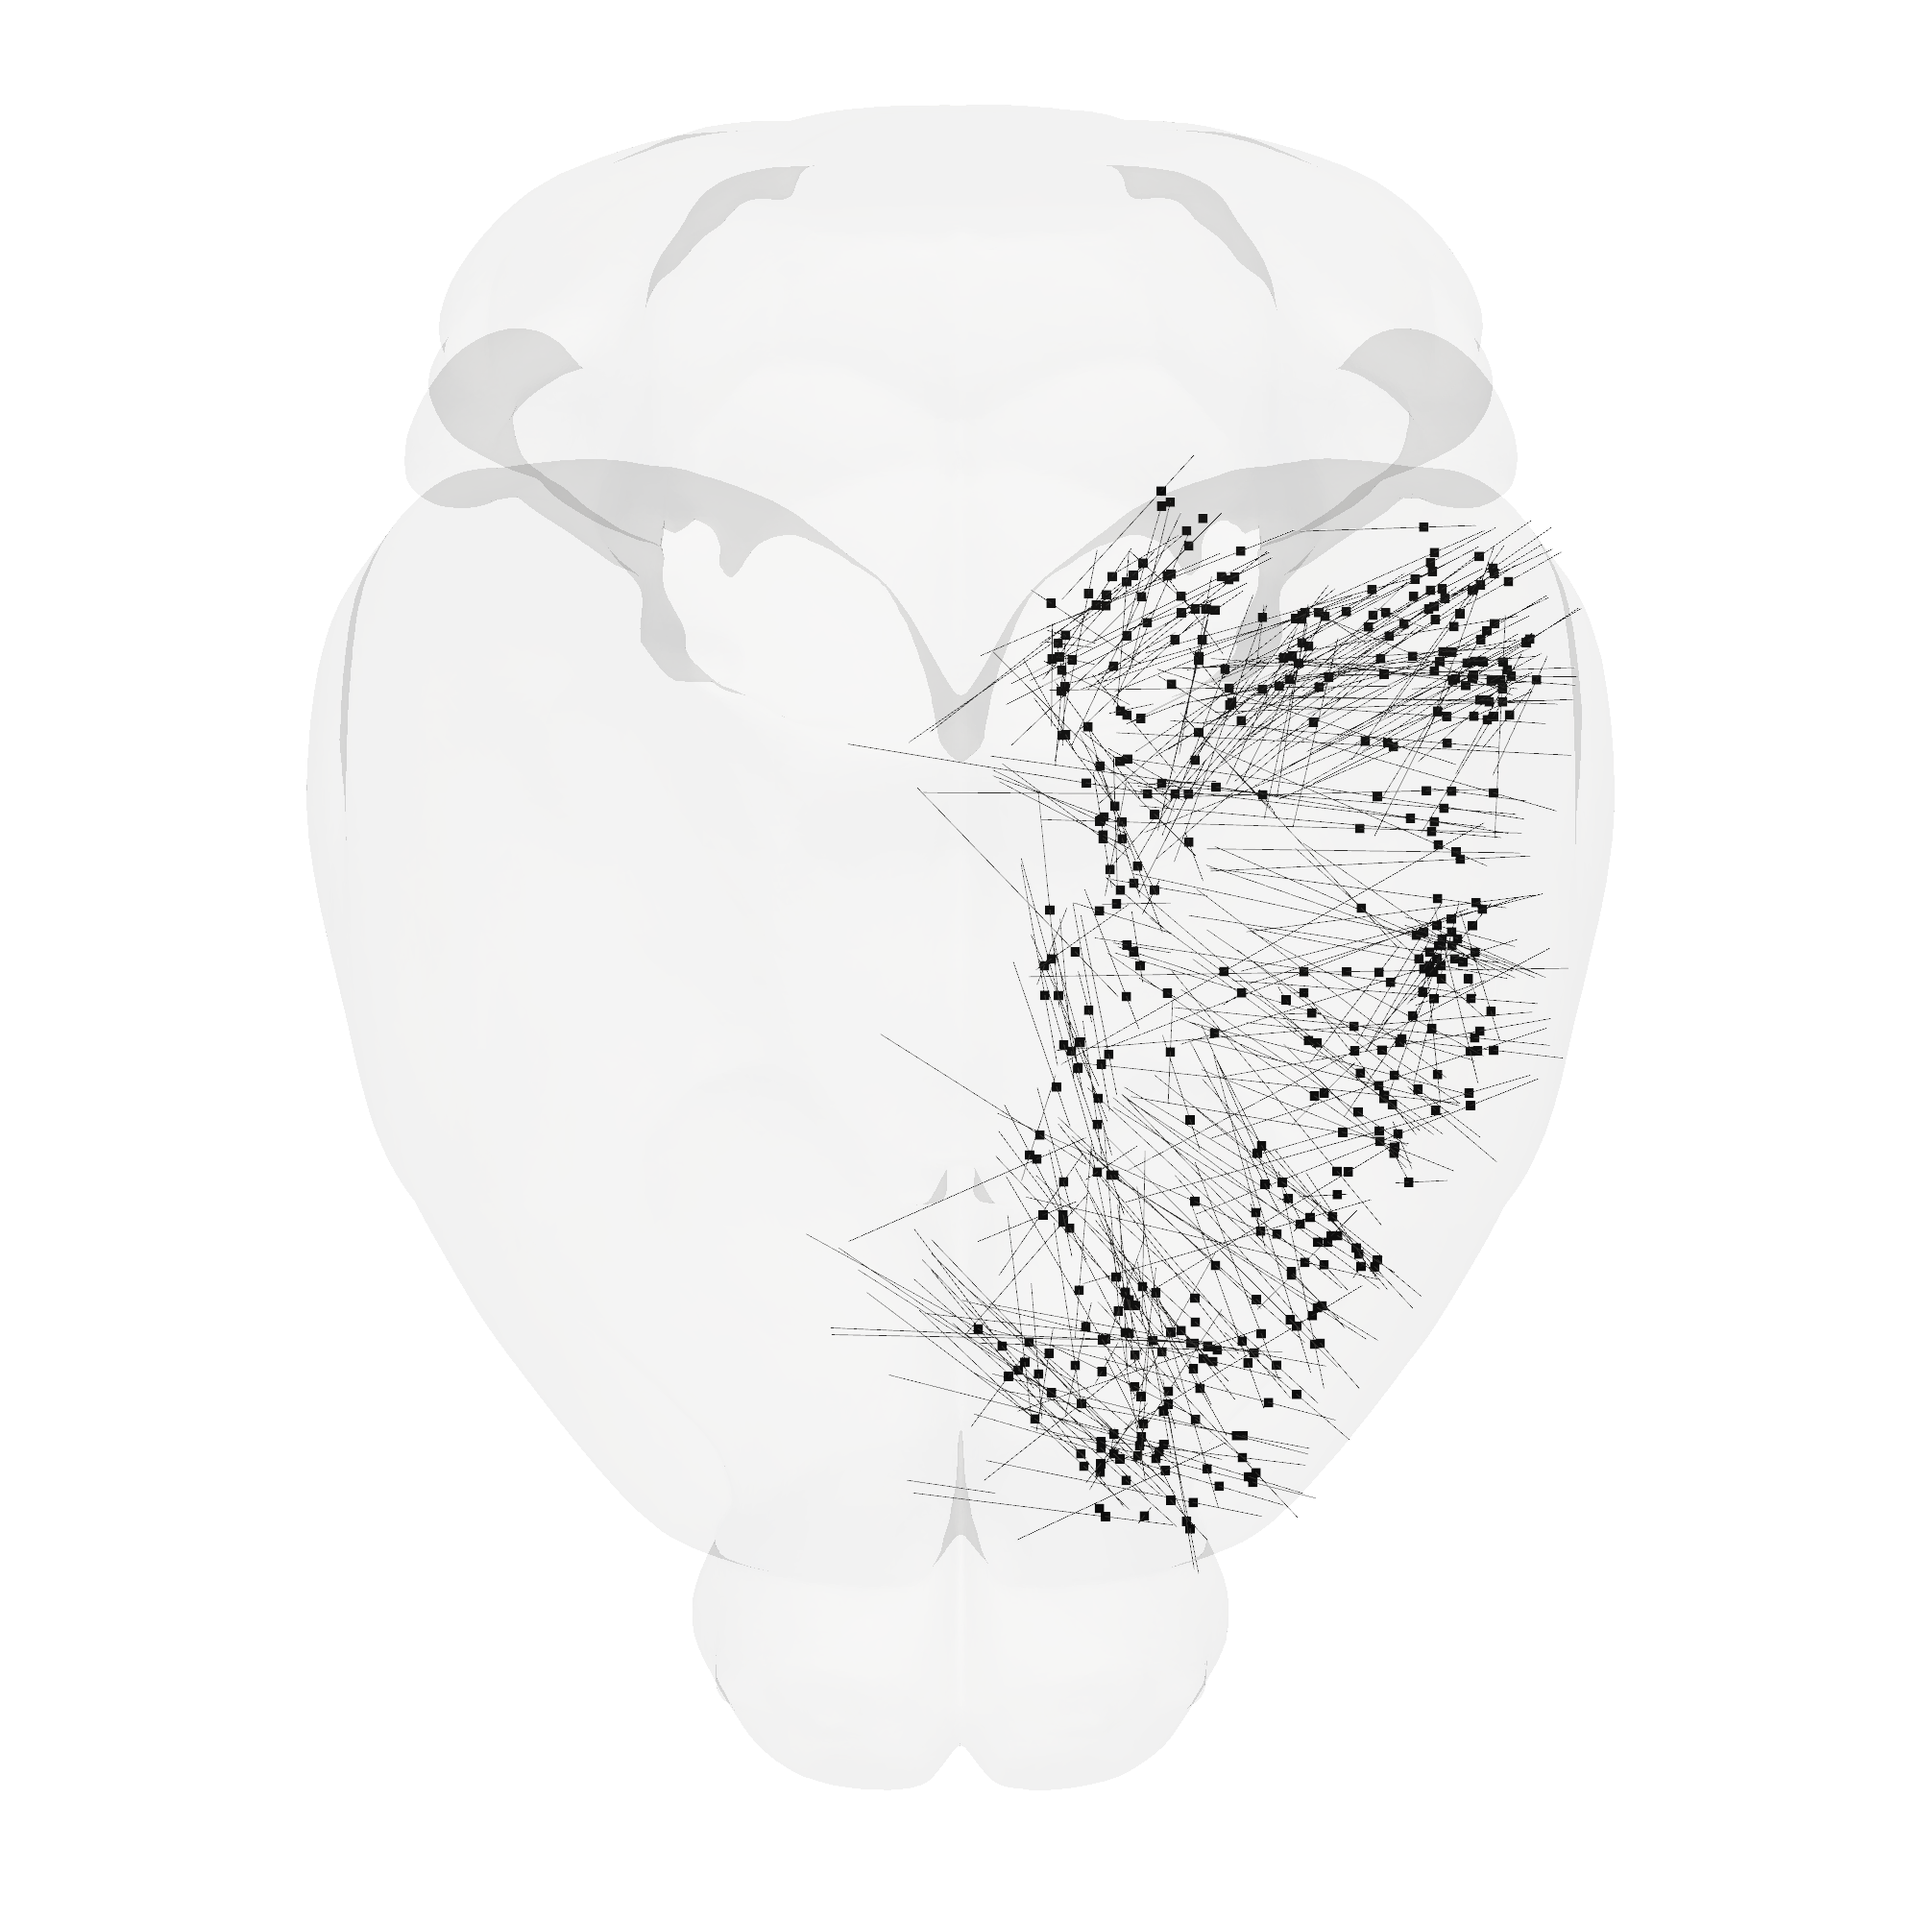
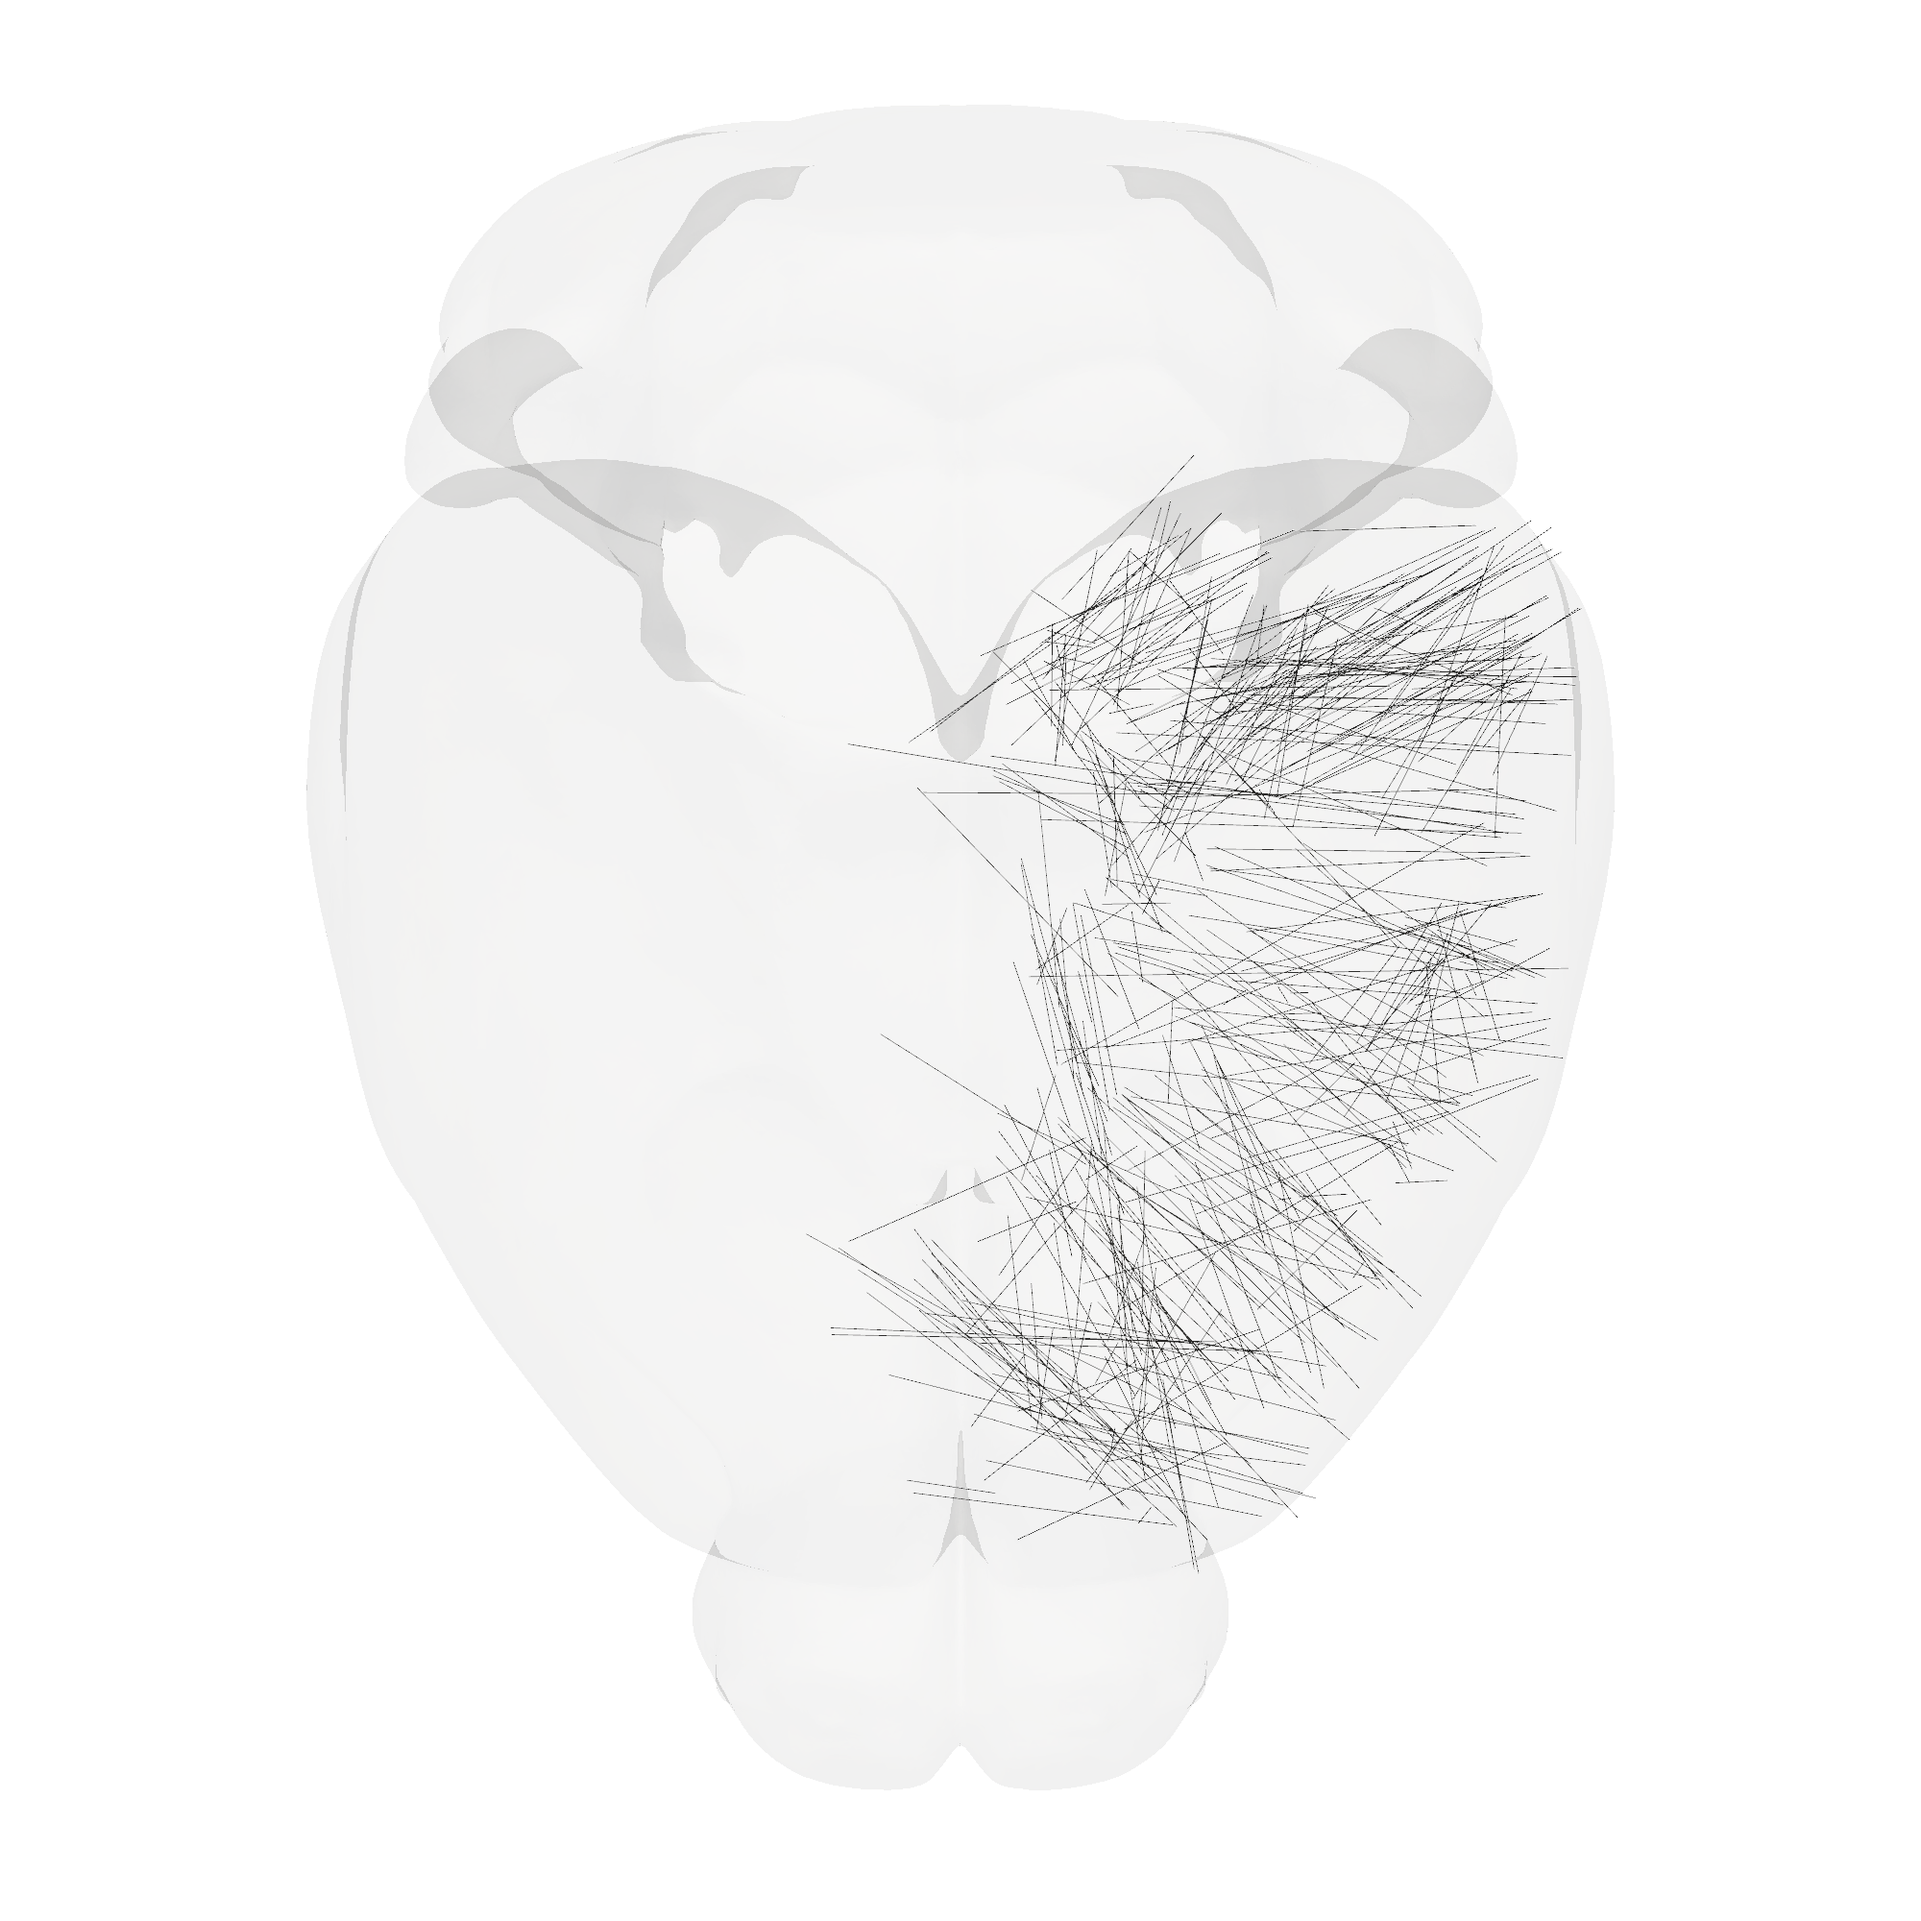
Hide insertion surface points by default

diff --git a/figures/fig1/insertions/marimo_nb.py b/figures/fig1/insertions/marimo_nb.py
@@ -241,6 +241,7 @@ def _(
         *,
         normalize_probe_lengths: bool = True,
         surface_clearance_mm: float = PROBE_SURFACE_CLEARANCE_MM,
+        show_surface_points: bool = False,
     ):
         """Build a low-point scene from electrode coordinates.
 
@@ -279,27 +280,27 @@ def _(
         assets: dict[str, AssetSpec] = {}
         scene = Scene()
 
-        # PyVista point actors have one material per actor. Render only the
-        # magenta bases; tip coordinates are still used to position the probes.
-        for loc, df, color in (("base", base_df, "#000000"),):
-            asset_key = f"electrodes:{loc}"
+        # The base points sit at the probe/surface intersection. They are
+        # useful for inspection, but are hidden by default in the figure.
+        if show_surface_points:
+            asset_key = "electrodes:base"
             assets[asset_key] = AssetSpec(
                 key=asset_key,
                 kind="points",
                 default_material=Material(
-                    name=f"electrodes-{loc}",
-                    color_hex_str=color,
+                    name="electrodes-base",
+                    color_hex_str="#000000",
                     point_size=10.0,
                 ),
                 points=PointsTransformable(
-                    points_in_scene_mm(df, ml_midline_mm=ml_midline_mm)
+                    points_in_scene_mm(base_df, ml_midline_mm=ml_midline_mm)
                 ),
             )
             scene.upsert(
                 NodeInstance(
                     key=asset_key,
                     asset_key=asset_key,
-                    tags={"electrodes", loc},
+                    tags={"electrodes", "base"},
                 )
             )
 
@@ -382,6 +383,7 @@ def _(
         height: int = 2000,
         normalize_probe_lengths: bool = True,
         surface_clearance_mm: float = PROBE_SURFACE_CLEARANCE_MM,
+        show_surface_points: bool = False,
         camera_zoom: float = 1.25,
     ):
         """Render named anatomical views and save one PNG per view."""
@@ -390,6 +392,7 @@ def _(
             brain=brain,
             normalize_probe_lengths=normalize_probe_lengths,
             surface_clearance_mm=surface_clearance_mm,
+            show_surface_points=show_surface_points,
         )
         plotter = pv.Plotter(
             off_screen=True,
@@ -598,6 +601,7 @@ def _(Path, load_pinpoint_atlas_mesh, on_codeocean):
     width = 2000
     height = 2000
     normalize_probe_lengths = True
+    show_surface_points = False
     camera_zoom = 1.25
     return (
         atlas_name,
@@ -609,6 +613,7 @@ def _(Path, load_pinpoint_atlas_mesh, on_codeocean):
         camera_zoom,
         normalize_probe_lengths,
         output,
+        show_surface_points,
         width,
     )
 
@@ -627,6 +632,7 @@ def _(
     normalize_probe_lengths,
     output,
     render,
+    show_surface_points,
     width,
 ):
     if isinstance(brain, Path):
@@ -646,6 +652,7 @@ def _(
         width=width,
         height=height,
         normalize_probe_lengths=normalize_probe_lengths,
+        show_surface_points=show_surface_points,
         camera_zoom=camera_zoom,
     )
     if isinstance(rendered, list):
